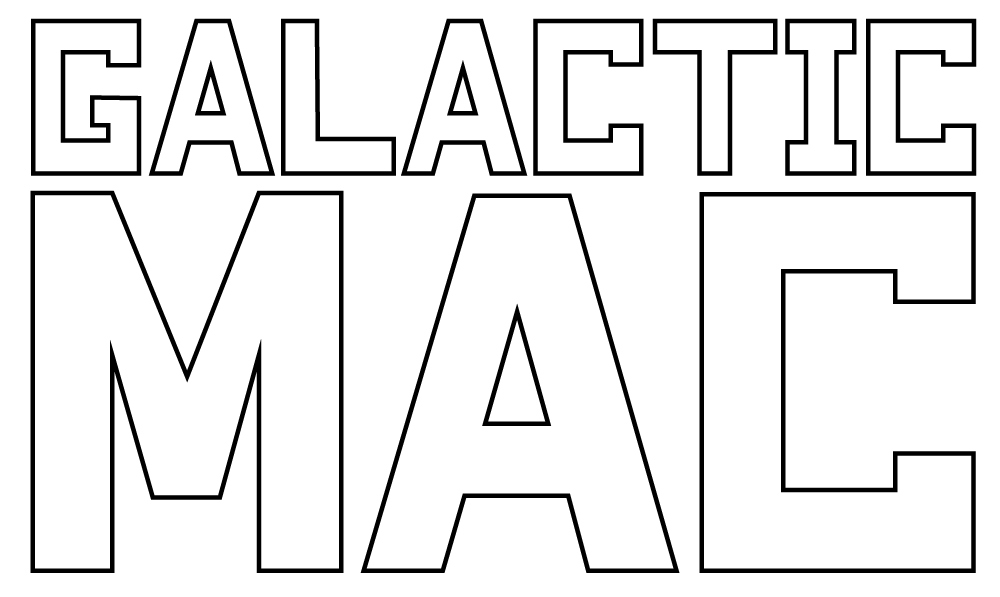
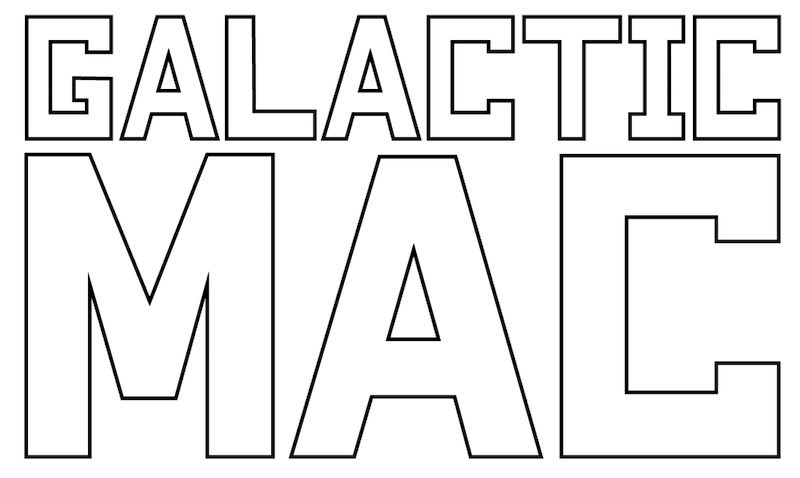
changed game dimensions back to 800x600

diff --git a/titleState.js b/titleState.js
@@ -43,8 +43,28 @@ titleState.create = function() {
 	this.addChild(this.nebulaGroup);
 	this.addChild(this.backgroundSparkParticles);
 	this.addChild(this.foregroundSparkParticles);
-	var cover = new Kiwi.GameObjects.StaticImage(this, 'cover');
+	var cover = new Kiwi.GameObjects.StaticImage(this, 'cover', 0, 0);
+	var rectHeight =  (this.game.stage.height-cover.height)/2;
+	cover.y =  (this.game.stage.height-cover.height)/2;
 	this.addChild(cover);
+
+	var rectParams =  {
+		state: this,
+		width: 800,
+		height: rectHeight + 2,
+		centerOnTransform: false,
+		x: 0,
+		y: 0,
+		color: [ 1, 1, 1 ],
+		drawStroke: false
+	} ;
+	
+	var rectangle = new Kiwi.Plugins.Primitives.Rectangle(rectParams);
+	var rectangle2 = new Kiwi.Plugins.Primitives.Rectangle(rectParams);
+	rectangle2.y += cover.height + rectangle2.height - 2;
+	
+	this.addChild(rectangle);
+	this.addChild(rectangle2);
 	
 	this.game.input.keyboard.onKeyDown.add(this.onKeyDownCallback, this);
 	this.game.input.onDown.add(this.onKeyDownCallback, this);

diff --git a/game.js b/game.js
@@ -1,5 +1,5 @@
 var gameOptions = {
-	width: 1000,
+	width: 800,
 	height: 600
 }
 
